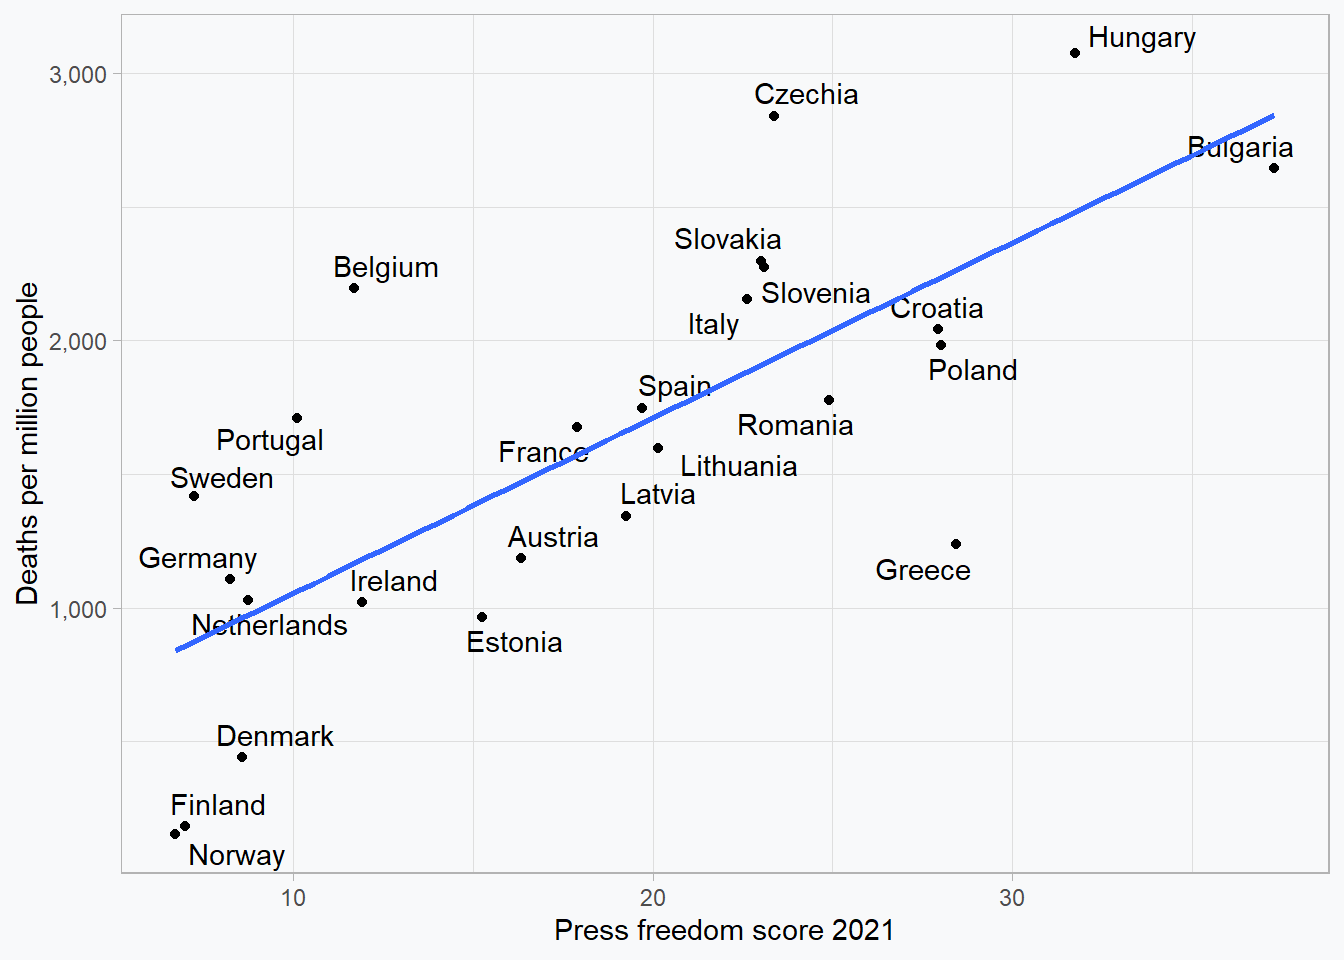
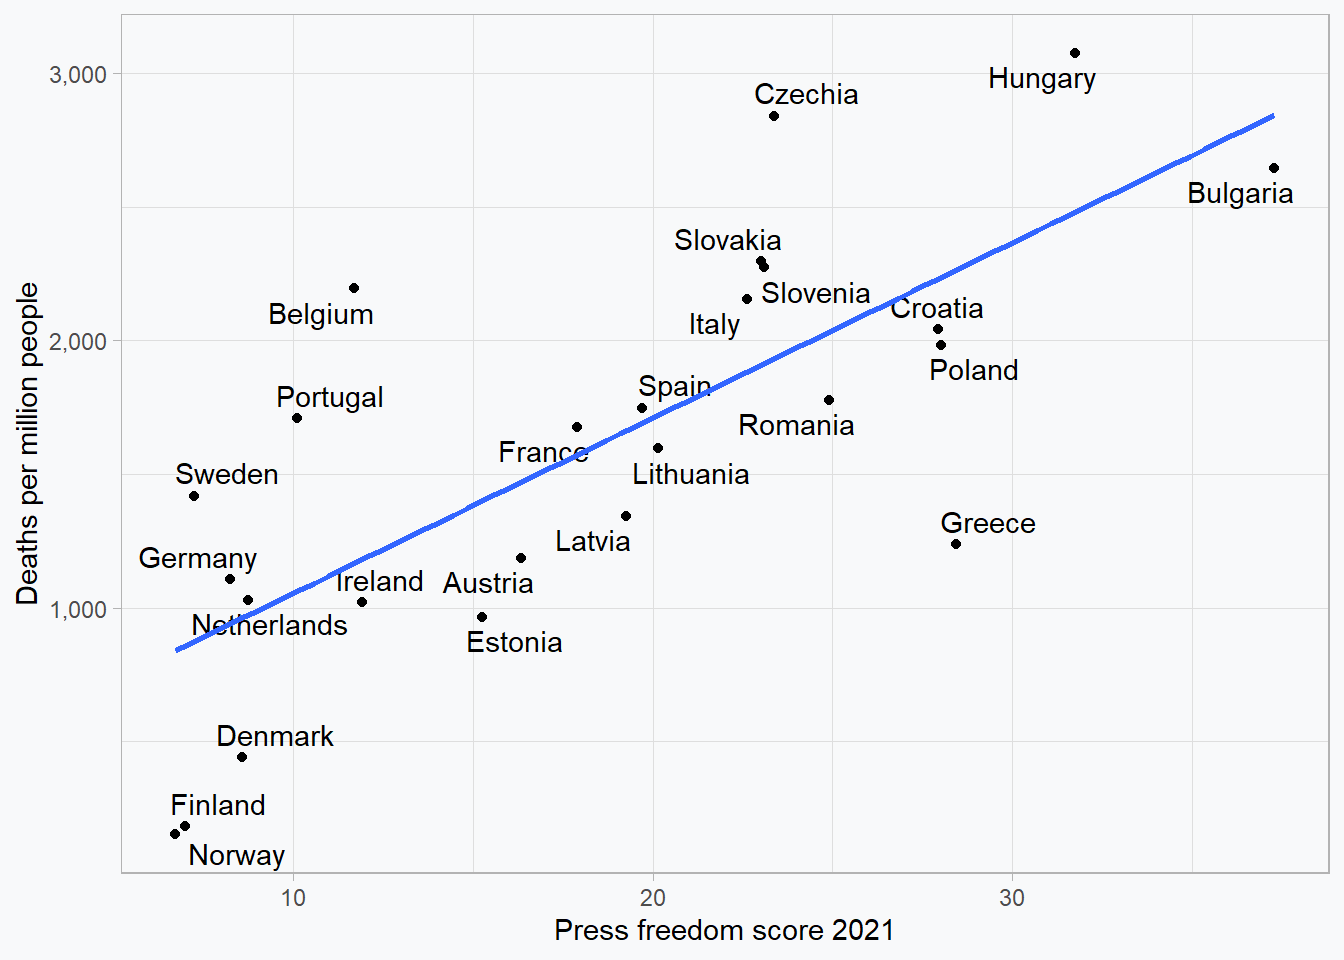
text edit

diff --git a/content/project/r1/index.html b/content/project/r1/index.html
@@ -26,11 +26,12 @@ output:
 <pre class="r"><code>knitr::opts_chunk$set(message = FALSE, warning=FALSE)</code></pre>
 <pre class="r"><code>library(tidyverse)         # for graphing and data cleaning
 library(kableExtra)        # for better tables
-library(scales)            # to decide between scientific and extended number notation in plots</code></pre>
-<p><strong>Motivation</strong> In this section I take a look at data related to the Covid-19 epidemic. I will try to answer the following questions: “which EU country was hardest hit by Covid-19?” and “is the wealth of countries a good predictor of deaths due to Covid-19?” At very the end, I’ll include data about press freedom (for reasons that will be made clear).</p>
+library(scales)            # to decide between scientific and extended number notation in plots
+library(ggrepel)           # to have points&#39; labels displayed nicely in a scatter plot.</code></pre>
+<p><strong>Motivation.</strong> In this section I take a look at data related to the Covid-19 epidemic. I will try to answer the following questions: “which EU country was hardest hit by Covid-19?” and “is the wealth of countries a good predictor of deaths due to Covid-19?” At very the end, I’ll include data about press freedom (for reasons that will be made clear).</p>
 <p><strong>Where does the data come from?</strong> The data that I use is imported from the European Centre for Disease Prevention and Control (ECDC) website (it does not include data about the United Kingdom). First, I will show a table for the cumulative deaths and cases for each EU country for which data is available in the ECDC dataset. Numbers refer to the pandemic from its beginning to mid august 2021. Second, for each country, I import information about its GDP from the Eurostat website.</p>
 <p><strong>The code</strong>. I have used R. The code used is displayed in chunks and the output is rendered in the document.</p>
-<p><strong>Outline</strong>. In the next section, you will find:</p>
+<p><strong>Outline</strong>. In this page, you will find (not in this order):</p>
 <ul>
 <li><p>data being imported from separate sources and merged</p></li>
 <li><p>a scatter plot with a line of best fit</p></li>
@@ -440,12 +441,7 @@ z</code></pre>
 <div id="deaths-per-million-people-as-a-function-of-per-capita-gdp" class="section level2">
 <h2>Deaths per million people as a function of per-capita GDP</h2>
 <p>Next, a trend emerges in which countries with a lower per-capita GDP tend to accrue more deaths per million people.</p>
-<pre class="r"><code>library(tidyverse)
-library(kableExtra)
-library(scales)
-library(ggrepel)
-
-data &lt;- read.csv(&quot;covid-data.csv&quot;)
+<pre class="r"><code>data &lt;- read.csv(&quot;covid-data.csv&quot;)
 gdp_data &lt;- read.csv(&quot;gdp-europe.csv&quot;)
 merged_data &lt;- merge(data, gdp_data, by = &quot;countries&quot;)
 
@@ -471,12 +467,7 @@ t </code></pre>
 <h2>Linear regression</h2>
 <p>Now it seems the right time to check for a linear relationship between deaths and GDP. A preliminary analysis has shown that removing the countries with a population smaller than one million from the data set improves the p-values of the regression method.</p>
 <p>In the next bit of analysis, first I identify and remove these countries from the data set. Then, I perform the linear regression on the new data set.</p>
-<pre class="r"><code>library(tidyverse)
-library(kableExtra)
-library(scales)
-library(ggrepel)
-
-data &lt;- read.csv(&quot;covid-data.csv&quot;)
+<pre class="r"><code>data &lt;- read.csv(&quot;covid-data.csv&quot;)
 gdp_data &lt;- read.csv(&quot;gdp-europe.csv&quot;)
 merged_data &lt;- merge(data, gdp_data, by = &quot;countries&quot;)
 
@@ -597,13 +588,7 @@ Data for deaths is imported from the ECDC (European Centre for Diseases preventi
 <li><p>a q-q plot for the residuals of the linear regression</p></li>
 </ul>
 <p> </p>
-<pre class="r"><code>library(tidyverse)
-library(kableExtra)
-library(scales)
-library(ggrepel)
-library(scatterplot3d)
-
-data &lt;- read.csv(&quot;covid-data.csv&quot;) # from the ECDC
+<pre class="r"><code>data &lt;- read.csv(&quot;covid-data.csv&quot;) # from the ECDC
 gdp_data &lt;- read.csv(&quot;gdp-europe.csv&quot;) # from EUROSTAT
 merged_data &lt;- merge(data, gdp_data, by = &quot;countries&quot;)
 press_fr &lt;- read.csv(&quot;index_2021.csv&quot;) # from Reporters Sans Frontiers
